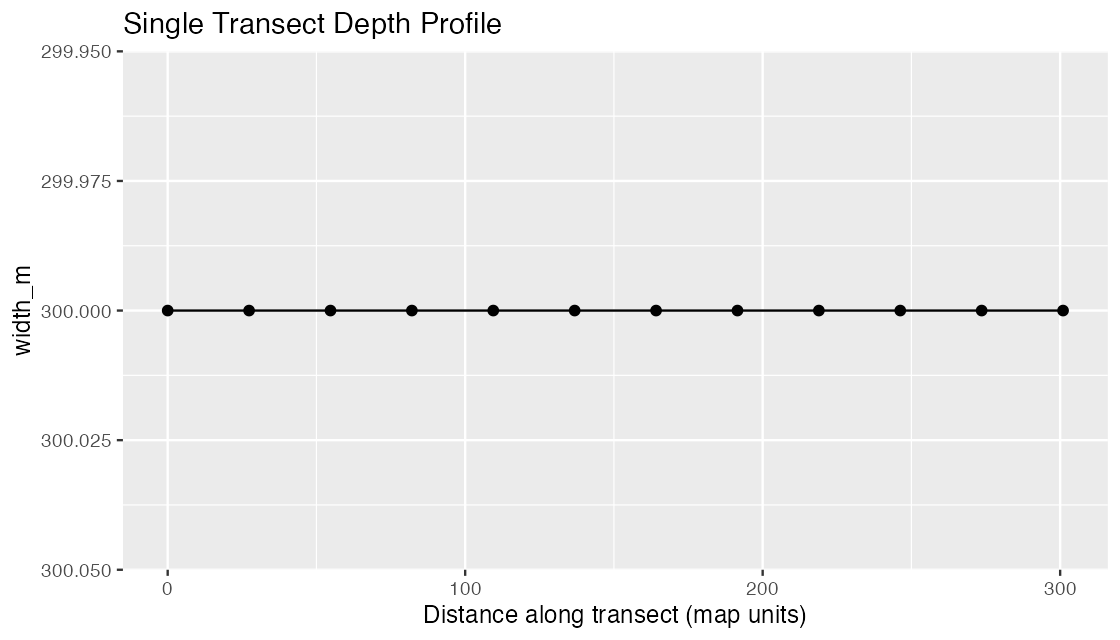
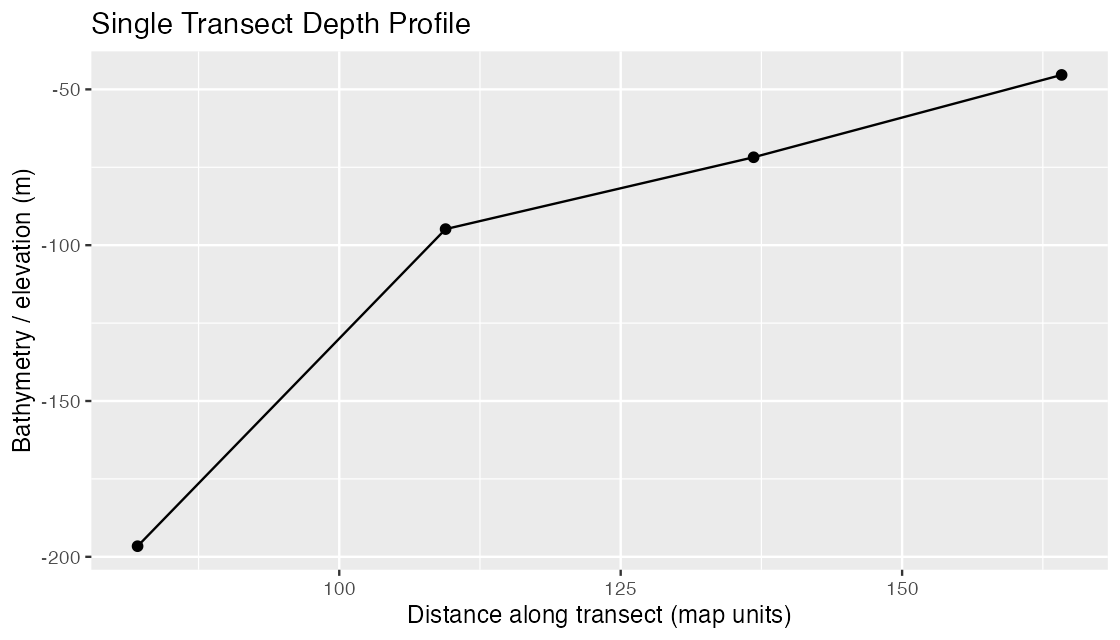
Refresh visual proof for profile plots

diff --git a/qa/visual-proof/visual-proof.md b/qa/visual-proof/visual-proof.md
@@ -1,15 +1,15 @@
 # blueterra Visual Proof
 
-- Date/time: 2026-07-09 15:55:48 AST
-- Git commit: b1d6c1914c5a427ec58030a8c6698fe6c68d8f57
+- Date/time: 2026-07-09 17:18:54 AST
+- Git commit: 9105f1eb8abd57ba212bfac84680264ef40eddd3
 - Working tree dirty at proof start: FALSE
 - Dirty paths at proof start: none
 - R version: R version 4.5.3 (2026-03-11)
 - Package version: 0.1.0
 - System: Darwin 25.2.0 arm64
 - Package tarball: blueterra_0.1.0.tar.gz
-- Package tarball size: 3916735 bytes
-- Package tarball size: 3.917 MB
+- Package tarball size: 3908859 bytes
+- Package tarball size: 3.909 MB
 
 ## Example Files
 
@@ -181,8 +181,8 @@ values      :    hitw Hole-in-the-Wall sampling_recta~ Hole In the Wall     300 
 
 - pkgdown build ok: TRUE
 - xml2 HTML parse ok: TRUE
-- HTML Tidy path: /usr/bin/tidy
-- HTML Tidy status: 2
+- HTML Tidy path: /opt/homebrew/opt/tidy-html5/bin/tidy
+- HTML Tidy status: 1
 - HTML Tidy log: qa/visual-proof/logs/html-tidy.log
 
 ## Known Limitations